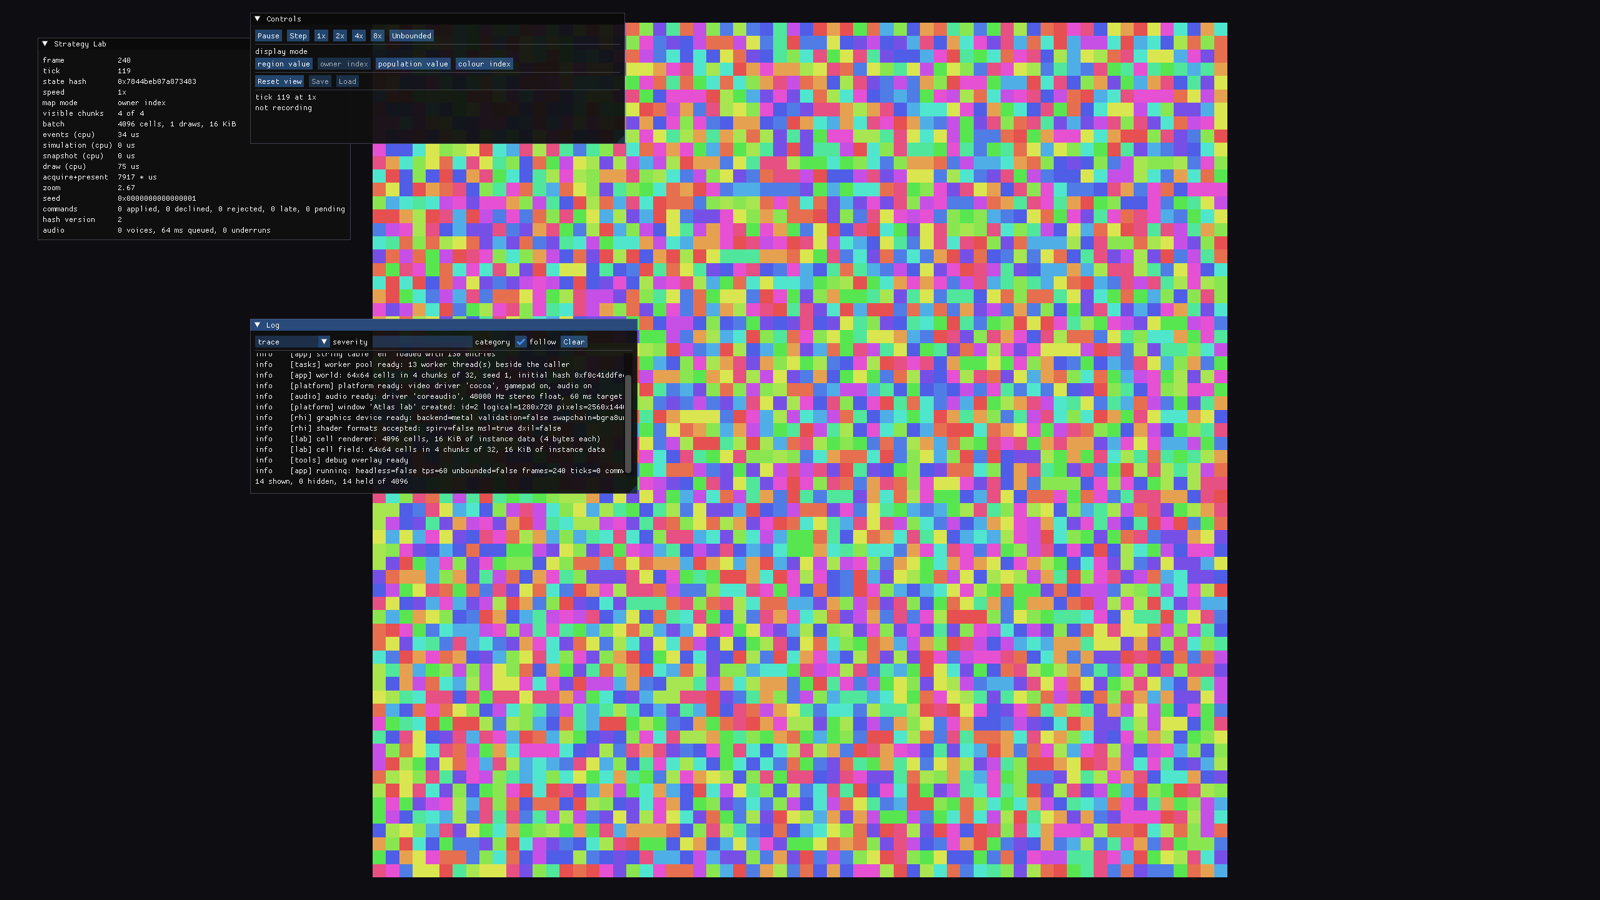
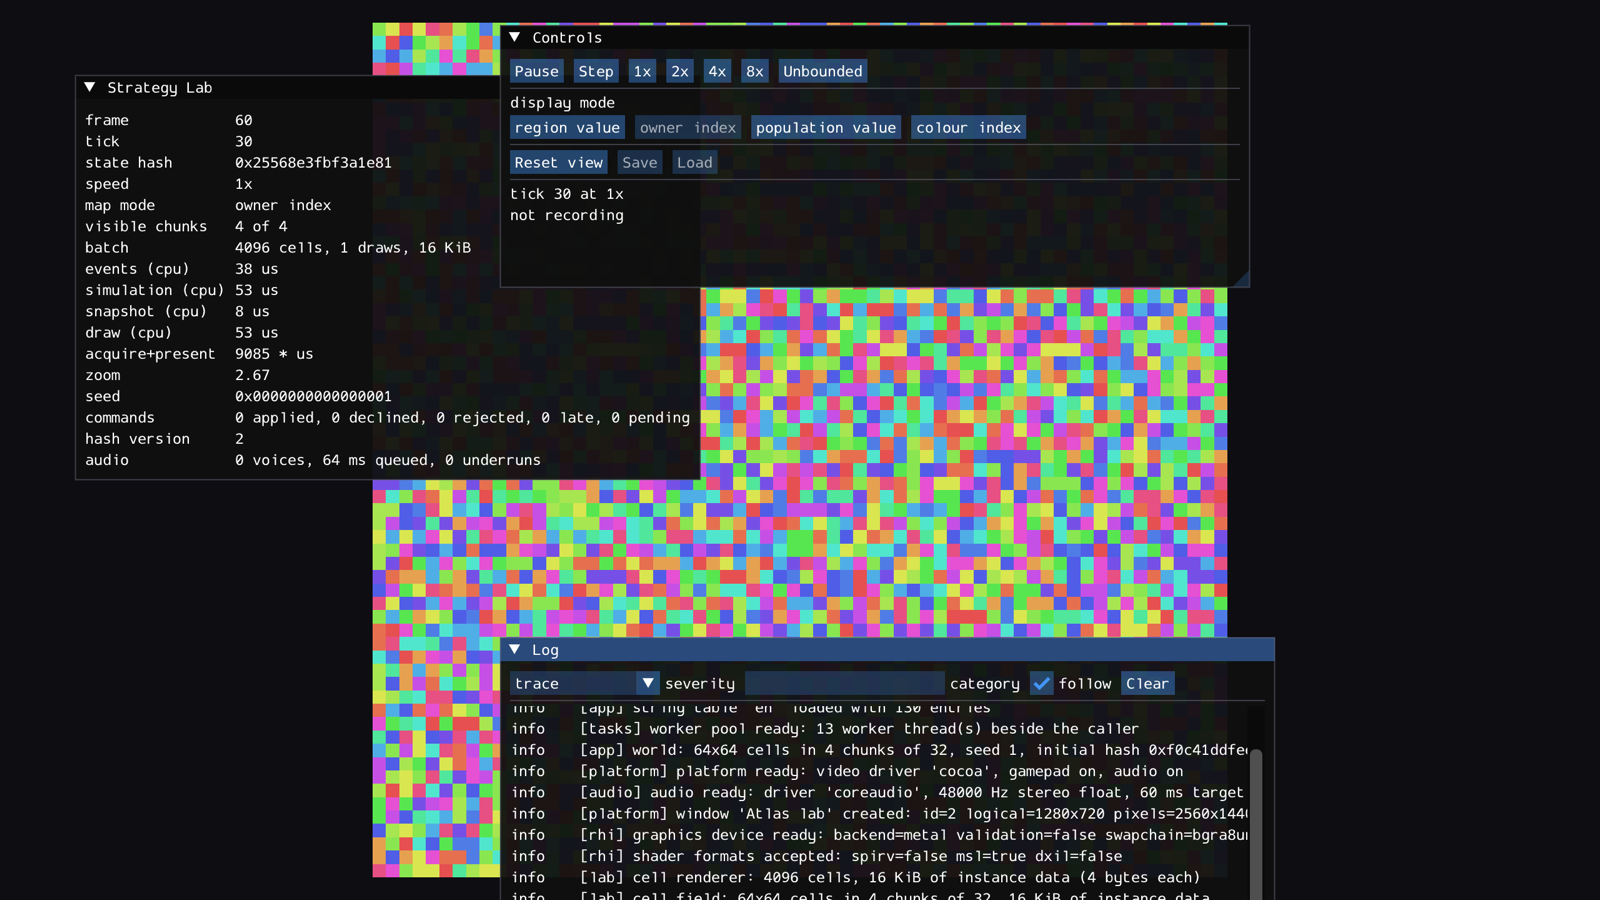
M30: the documents, the README's frames remade, and the report
ROADMAP: M30 done, its predictions scored beside the record (five held; M28's
bug put back fails six cases at 1.75, not one) and a verdict table.
ARCHITECTURE: the overlay converts a pointer and draws at the density.
DEFERRED: the overlay entry half built, with why the interface-scaling half
needs the window to grow and the laptop to judge; the default layout's
overflow in a 720-point window recorded. CLAUDE.md: a pointer from the
platform is in logical units, and a test sends one as the platform does.

README: the three frames remade on the M4 Pro, the overlay at the size its
layout was written for, with the recipe beside them.

diff --git a/docs/reports/M30.md b/docs/reports/M30.md
@@ -1,0 +1,127 @@
+<!-- SPDX-License-Identifier: GPL-3.0-or-later -->
+# M30 — The overlay in the window's units
+
+Commits on `m30-overlay-scale`, on top of M29: the record with its predictions, the fix with its
+tests and the second GPU run, and the documents with the README's frames remade. No ADR: the
+overlay's public API keeps its shape and its units; what changed is that it now honours the
+platform's.
+
+## What this milestone was for
+
+On 2026-09-28 the owner asked for everything that needed no Windows machine. M28 had left one
+such candidate half-understood — the overlay was small on the laptop's 175% desktop — and reading
+the code for it turned up something worse on the owner's own Mac. The platform delivers a pointer
+in the window's logical units; the overlay draws in the swapchain's pixels; nothing converted. On
+a display of two pixels a point every pointer reached the overlay at half its position, and every
+widget was drawn at half the size its layout was written for. The overlay's tests passed, because
+they sent each widget's rectangle back to it in the overlay's own pixels.
+
+## What was built
+
+**The overlay converts a pointer, and draws at the density.** `DebugUi` keeps the window's native
+handle, through the `platform_internal` target the module graph already listed for `tools`, and
+asks it for the pixel density whenever a pointer arrives or a frame begins — never remembering it,
+so a window moved to another display follows. A pointer is multiplied into pixels. The style is
+rebuilt from the library's one-pixel-a-unit style at that density, the font rasterised at it, and
+the default panel positions, sizes and widths, all written at one pixel a unit, scaled with it.
+The public API is unchanged: panel rectangles and the input method's request stay in the overlay's
+pixels, and `handle_event`'s comment now says which units it takes.
+
+**The tests send what the platform sends.** A helper moves the pointer to an overlay rectangle's
+point divided by `Window::display_scale()`, and another begins a frame on a display named in
+logical units. A new GPU case checks the log filter field is about nineteen units tall whatever
+the density.
+
+**The Linux GPU lane runs twice.** After the usual run, `linux_gpu.sh` sets SDL's X11 scaling
+factor to 1.75 — the laptop's display, an interface scaling of 1.75 over one pixel a unit — checks
+from the window system's own report that it took, and runs the `gpu` label again. The window's log
+line now carries that report as `interface=`, asked of SDL alone, so it cannot be fooled by the
+very function it is there to check.
+
+```
+window 'Atlas sandbox' created: id=2 logical=1280x720 pixels=2560x1440 scale=2 interface=1     # the Mac
+window 'Atlas sandbox' created: id=2 logical=1280x720 pixels=1280x720 scale=1 interface=1.75   # the 175% run
+```
+
+## Predictions
+
+Written into ROADMAP's M30 section in `ba039d3`, before any test or fix. **Five held and one
+missed.**
+
+| # | Prediction | Outcome |
+|---|---|---|
+| 1 | Pointer tests sent as the platform sends fail on the Mac against the old overlay, and pass on llvmpipe either way | **Held.** On the Mac: no focus, no filtering, no input method. On llvmpipe, with the conversion removed, 64 of 64. |
+| 2 | The filter field twice as many pixels tall on the Mac as on llvmpipe | **Held.** 38 pixels on the Mac, 19 units; on llvmpipe the case passes, which bounds it to 17–21. |
+| 3 | All 63 GPU tests pass at 1.75, the density one there | **Held**, now 64 with the new case, the window reporting `scale=1 interface=1.75`. |
+| 4 | M28's bug put back fails the display-scale case at 1.75 and nothing else | **Missed.** Six cases: the display-scale case; `lab_pick_returns_expected_cell`, the laptop's original finding end to end; and four overlay cases whose own conversions go through `display_scale()`. The prediction forgot the bug's reach, which is exactly why a whole-program case matters. |
+| 5 | No test outside `tools` and `rhi` changes | **Held**; `rhi`'s did not change either. |
+| 6 | The frames show the overlay at its designed share of the window, text twice as tall | **Held.** The Mac's frames now match the laptop's 1280×720 frame from M28 panel for panel. |
+
+## Found on the way
+
+- **My own guard asked the wrong function.** The 175% run first checked `interface=` computed
+  through `display_scale()`; with M28's bug put back that read 1 and the run stopped claiming SDL
+  had ignored the scaling factor, which was false, before any test could speak. It is now asked of
+  SDL alone. Found by the mutation run, which is what the mutation run is for.
+- **The tests named their display in pixels.** At two pixels a unit, 1280 by 900 pixels put the
+  log console below the bottom of the screen, and the console reported no records at all. They
+  name it in logical units now.
+- **The default layout does not fit a 720-point window.** The scene panel reaches 840 and the log
+  console 790, so the scene's undo row and the log's last lines are off the bottom — in the laptop's
+  M28 frame too, and now on the Mac, where the half-size overlay had hidden it. Recorded, not
+  changed: the layout is the owner's to choose, and panels move.
+- **One panel took the library's default position, which is in pixels.** The statistics panel
+  sets no position, so it opened at the library's (60, 60) pixels: 30 points on the Mac, where the
+  other panels' positions assume 60. Checking the frames against the laptop's, panel for panel,
+  showed it; it now asks for (60, 60) in the layout's units, like the rest.
+- **`cmake/ModuleGraph.cmake` said the window handle went "to the renderer and to nothing else"**
+  while its own table already listed `tools`. It now says why `tools` has it.
+- **The README's frames had no recipe.** They do now, beside them.
+- **An intermittent failure in M25's three-peer test, not caused here.** On one CI lane,
+  `lab_socket_lost_peer_is_dropped` failed: the relay dropped the peer the test kills and then,
+  one tick later, the peer that should have survived. By the log, a survivor blocked at the gate
+  on the lost peer goes silent too, and its silence timer expires about a tick after the lost
+  peer's; if its first turn after the drop has not arrived, it is dropped as well. It is the first
+  such failure in the last forty CI runs. It is a real race in the drop logic, outside this
+  milestone, and is flagged as its own task with the log's analysis rather than patched here.
+
+## Mutations
+
+| What was broken | What caught it |
+|---|---|
+| The pointer handed over unconverted | on the Mac, the three pointer tests |
+| The overlay drawn at one pixel a unit | on the Mac, the density case, and nothing else |
+| M28's `display_scale()` put back, with the conversion also removed | at 1.75, six cases; at one pixel a unit, none — as it should be |
+
+## Checks
+
+| Where | Result |
+|---|---|
+| `tools/precheck.sh`, Debug, clang-tidy 23 with `ATLAS_PRECHECK_TIDY=1` | clean, 1016 of 1016 (the run before failed on formatting alone; fixed and run again whole) |
+| macOS `gpu` label | 64 of 64, the new density case among them |
+| Linux container | 1016 of 1016 |
+| llvmpipe, then llvmpipe at 1.75 | 64 of 64, then 64 of 64 with the window reporting `interface=1.75` |
+| CI, `9b78a57` | all four workflows green; gpu-smoke ran the 175% pass on GitHub's runner, 64 of 64 twice; CI's macOS Release lane on its second attempt, after the intermittent failure above |
+
+## Benchmark impact
+
+None measured, and none expected: the overlay is not benchmarked, a pointer event gains one query
+of the window, and a frame gains the same. The allocation benchmark does not draw the overlay.
+
+## Remaining risks
+
+- **The user's interface scaling is not applied.** On the laptop the overlay is still drawn one
+  pixel a unit inside a 1280×720-pixel window. Applying the 1.75 needs the window to grow with it,
+  a decision about every application's window, and the laptop to judge (`DEFERRED.md`, M28).
+- **Drags are per pixel.** A value dragged in the inspector now moves twice as far per point on
+  the Mac as it did when the pointer was unconverted; that is the library's convention, and nobody
+  has said it feels wrong.
+- **The Mac is still the only real high-density display.** llvmpipe runs at one pixel a unit in
+  both passes; the conversion has teeth on the Mac alone, as the display-scale case once had them
+  on the laptop alone.
+
+## The next smallest slice
+
+Merging `m29-machine-benchmark` and then `m30-overlay-scale` into `main`, both fast-forwards, on
+the owner's word. Then, needing the laptop: its first run of the machine group, which scores M29's
+last prediction, and the interface-scaling half of the overlay.

diff --git a/docs/ROADMAP.md b/docs/ROADMAP.md
@@ -38,7 +38,7 @@ Status legend: **done**, *in progress*, planned.
 | M27 | An installable engine, and chess in its own repository | L | **done** |
 | M28 | A real GPU on Windows: Vulkan on an RTX 3080 Ti | M | **done** |
 | M29 | The machine, measured: a benchmark of the hardware under the engine | S | **done** |
-| M30 | The overlay in the window's units: pointer and size on a high-density display | S | planned |
+| M30 | The overlay in the window's units: pointer and size on a high-density display | S | **done** |
 
 ## M0 — Architecture and reproducible skeleton
 
@@ -1587,7 +1587,9 @@ Windows machine; this is the first. Tooling, recorded in `PERFORMANCE.md` rather
 
 ## M30 — The overlay in the window's units
 
-*The record, written 2026-09-28 before any test or fix.*
+Full report: [reports/M30.md](reports/M30.md).
+
+*The record, written 2026-09-28 before any test or fix, and kept as written.*
 
 The platform delivers a pointer in the window's logical units, and the overlay draws in the
 swapchain's pixels. On the Mac, where the lab's window is 1280×720 logical and 2560×1440 pixels,
@@ -1621,6 +1623,24 @@ density of one, which is exactly where M28's display-scale bug lived.
 5. No test outside `tools` and `rhi` changes.
 6. On the Mac, the sandbox's and the lab's screenshots show the overlay covering the share of the
    window its layout was designed for, with its text twice as many pixels tall.
+
+**Scored.** Five held and one missed, the right way round.
+
+| # | Outcome |
+|---|---|
+| 1 | **Held.** Sent as the platform sends them, the three pointer tests failed on the Mac against the old overlay — no focus, no filtering, no input method — and passed on llvmpipe with the conversion removed. |
+| 2 | **Held.** The filter field is 38 pixels tall on the Mac, 19 units at two pixels a unit; on llvmpipe the new GPU case passes, which bounds it to 17–21 pixels. With the scaling removed the case fails on the Mac. |
+| 3 | **Held.** 64 of 64 at 1.75, the window reporting one pixel a unit and an interface scaling of 1.75. |
+| 4 | **Missed.** M28's bug put back fails six cases at 1.75, not one: the display-scale case, the lab's pick end to end — the laptop's original finding — and four overlay cases whose own conversions go through `display_scale()`. |
+| 5 | **Held.** Only `tools` and `rhi` tests changed, and `rhi`'s not at all. |
+| 6 | **Held.** The README's three frames are the Mac's again, with the overlay at the size its layout was written for. |
+
+| Criterion | Status |
+|---|---|
+| A pointer lands where it is on the Mac | **Met.** Converted by the pixel density, asked of the window per event; three tests send what the platform sends and fail without it. |
+| The overlay at the display's density | **Met.** Style, font and default geometry; the text is rasterised at the density, not magnified. |
+| M28's bug under CI | **Met.** The Linux GPU lane runs twice, the second at SDL's X11 scaling of 1.75, and checks from the window system itself that it is. |
+| The interface-scaling half | **Deferred, with a finding.** On Windows the window does not grow with it, so the overlay cannot either without every application's window changing; that wants the laptop. |
 
 ## First continuous integration
 

diff --git a/docs/DEFERRED.md b/docs/DEFERRED.md
@@ -834,11 +834,16 @@ fact about the tree today rather than a consequence of the milestone.
   and still untested on real hardware, because a loss cannot be caused on purpose. Trigger: a way
   to cause one, such as a driver reset tool the owner is willing to run.
 
-- **The overlay's size on a scaled desktop.** Since `display_scale` became pixels per logical
-  unit, a window on a Windows desktop set to 175% is drawn one pixel per unit, and nothing scales
-  the overlay's fonts or spacing by the user's interface scaling, so its text is small there. It
-  is legible and it is right about where things are; it is not what the user asked their desktop
-  for. Trigger: a person using the overlay on such a desktop.
+- **The overlay's size on a scaled desktop.** *Half built in M30:* the overlay now draws at the
+  window's pixel density, so on the Mac, where the density carries the scaling, it is the size its
+  layout was written for, and a pointer reaches it where it is. What stays open is the user's
+  interface scaling on top of the density — 1.75 on the Windows laptop, where the density is one —
+  and M30 found why it is not a one-line change: the window there is 1280×720 pixels however the
+  desktop is scaled, so an overlay scaled by 1.75 inside it would not fit its own layout. Doing it
+  properly means the window growing with the interface scaling too, which is a decision about every
+  application's window and wants the laptop to judge. The platform now logs the interface scaling
+  (`interface=` on the window's line), and CI runs the GPU tests at 1.75. Trigger: a person using
+  the overlay on such a desktop, with the laptop to look at it.
 
 - **Two implicit Vulkan layers still load.** The GPU presets set `VK_LOADER_LAYERS_DISABLE` to
   `~implicit~`, and on the laptop the loader still inserted an overlay's layer and NVIDIA's own
@@ -874,6 +879,15 @@ The next four are what slice 4's measurements produced.
 
 - **Why Windows makes two allocations a frame where macOS makes eight.** Both are constant in the
   scene size, which is the rule; the six were not traced. Trigger: the count growing anywhere.
+
+### M30 — the overlay in the window's units
+
+- **The default layout does not fit a 720-point window.** The panels' first positions and sizes
+  were written for a window about 900 tall: the scene panel reaches 840 and the log console 790, so
+  in the applications' 1280×720 windows the scene's undo row and the log's last lines open below the
+  edge. It was always so on Windows and Linux; on the Mac the half-size overlay hid it until M30.
+  Panels move and resize, and where they go is a design choice nobody has made. Trigger: the owner
+  choosing a layout, or a default window size that changes.
 
 ## Decided by ADR-0010, planned as milestones
 

diff --git a/docs/ARCHITECTURE.md b/docs/ARCHITECTURE.md
@@ -290,6 +290,15 @@ Retina display is the same number and on a Windows desktop set to 175% is not. M
 there landing 1.75 times too far from the pointer. The name stays because it is installed API;
 the comment says what it means.
 
+**The overlay converts, and draws at the density** (M30). It speaks pixels in its public API —
+panel rectangles, the input method's request — and takes a pointer as the platform delivers it,
+in logical units, converting it itself. On the Mac nothing did, and a pointer reached the overlay
+at half its position; the tests missed it because they sent the overlay's own rectangles back to
+it. It draws its style, its font and its default panel geometry at the window's pixel density,
+asked of the window whenever a frame begins or a pointer arrives, so its layout keeps the size it
+was written for. The user's interface scaling on top of the density is not applied: on Windows it
+would need the window itself to grow with it (`DEFERRED.md`, M28).
+
 ### Text, and why it is not keys
 
 A key is a position on a keyboard; a character is what an input method decided the person

diff --git a/CLAUDE.md b/CLAUDE.md
@@ -286,6 +286,10 @@ Never combine ASan and TSan. TSan runs only `unit` and `determinism` labelled te
 - `Window::display_scale()` is pixels per logical unit, the window system's pixel density. It is
   never the user's interface scaling, which equals it on a Retina display and is 1.75 on the
   Windows laptop.
+- **A pointer from the platform is in logical units**, and whatever draws in pixels converts it by
+  `display_scale()` itself; the overlay does. A test sends a pointer as the platform does, never a
+  rectangle the code under test reported: the overlay's tests sent its own pixels back to it and
+  passed on the Mac while a real pointer landed at half its position (M30).
 - Shader resource counts come from reflection, never from hand-written numbers.
 - A matrix goes to a uniform through `uniform_elements()`, not `elements()`: shaders read
   column-major and Atlas stores row-major.

diff --git a/README.md b/README.md
@@ -10,7 +10,9 @@ configure, build, test run, and a runnable demonstration before the next one sta
 ## Screenshots
 
 Each frame below was written by the application itself with `--screenshot`, which captures
-the last frame before exit.
+the last frame before exit: on the M4 Pro at 2560×1440, two pixels a point, then scaled to
+1600×900 (the million-cell frame to 1280×720) with `sips`. Remade in M30, when the overlay began
+drawing at the display's density; before that it was drawn at half this size on the Mac.
 
 | | |
 |---|---|
